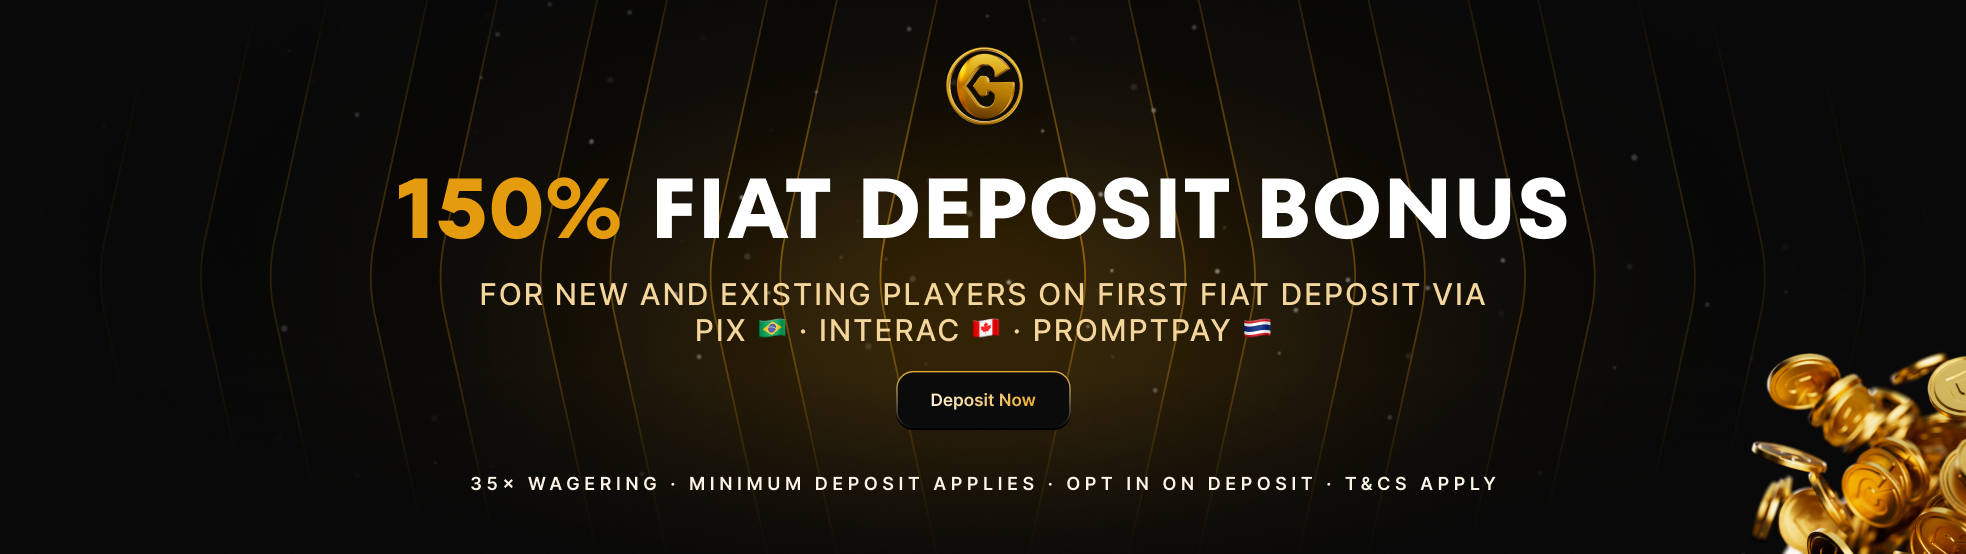
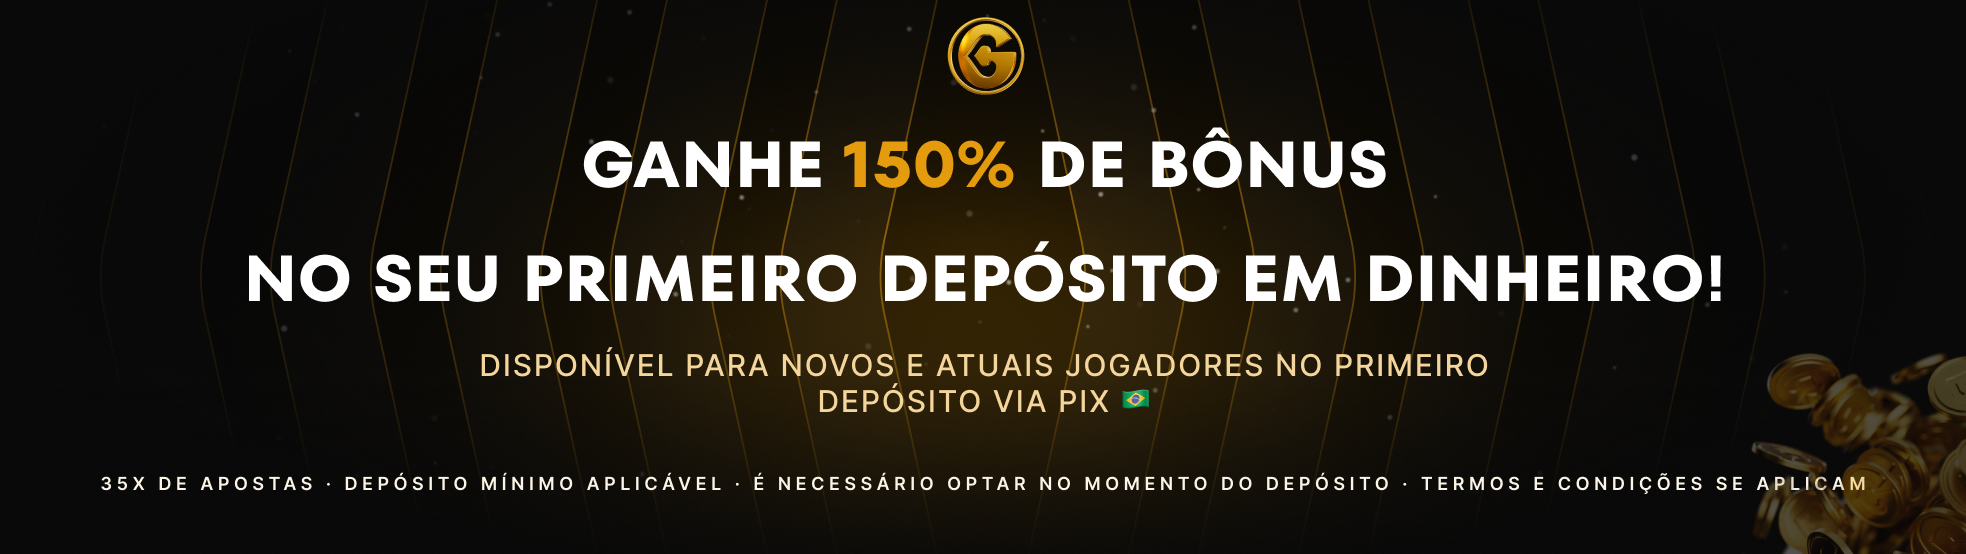
cambio de imagenes

Changed region(s): [[0.1241, 0.0307, 0.8998, 0.7978], [0.031, 0.6444, 1.0, 1.0]]

diff --git a/app/page.tsx b/app/page.tsx
@@ -11,7 +11,17 @@ export default function Home() {
 
       {/* ===== 1. Hero Section (Banner de Imagen Clicable) ===== */}
       <section 
-        className="w-full text-center flex flex-col items-center justify-center px-4 bg-no-repeat bg-cover bg-center relative cursor-pointer bg-hero-sm md:bg-hero-md lg:bg-hero-lg xl:bg-hero-xl h-[400px] md:h-[450px] lg:h-[429px] xl:h-[554px]"
+        className="
+          w-full text-center flex flex-col items-center justify-center px-4 
+          bg-no-repeat bg-center relative cursor-pointer 
+          bg-hero-sm md:bg-hero-md lg:bg-hero-lg xl:bg-hero-xl 
+          
+          bg-cover
+          aspect-[639/498] 
+          md:aspect-[872/450] 
+          lg:aspect-[1320/429] 
+          xl:aspect-[1966/554]
+        "
         onClick={() => window.open(portalLink, "_blank")}
       >
         {/* Vacío: la imagen de fondo lo es todo */}
@@ -22,7 +32,7 @@ export default function Home() {
         
         {/* H1 do PDF */}
         <h1 className="text-4xl md:text-6xl font-bold max-w-3xl">
-          Bônus de Depósito PIX de 150% - Até <span className="text-chart-3">R$1.000</span>
+          Bônus de Depósito PIX de 150% - Até <span className="text-chart-3">R$15.000</span>
         </h1>
         
         {/* Subhead do PDF */}
@@ -30,7 +40,7 @@ export default function Home() {
           Deposite com PIX e jogue Crash, Slots e apostas ao vivo em futebol em minutos.
         </p>
         
-        {/* ===== CAMBIO EN EL BOTÓN AQUÍ ===== */}
+        {/* Primary CTA do PDF */}
         <a 
           href={portalLink}
           target="_blank"
